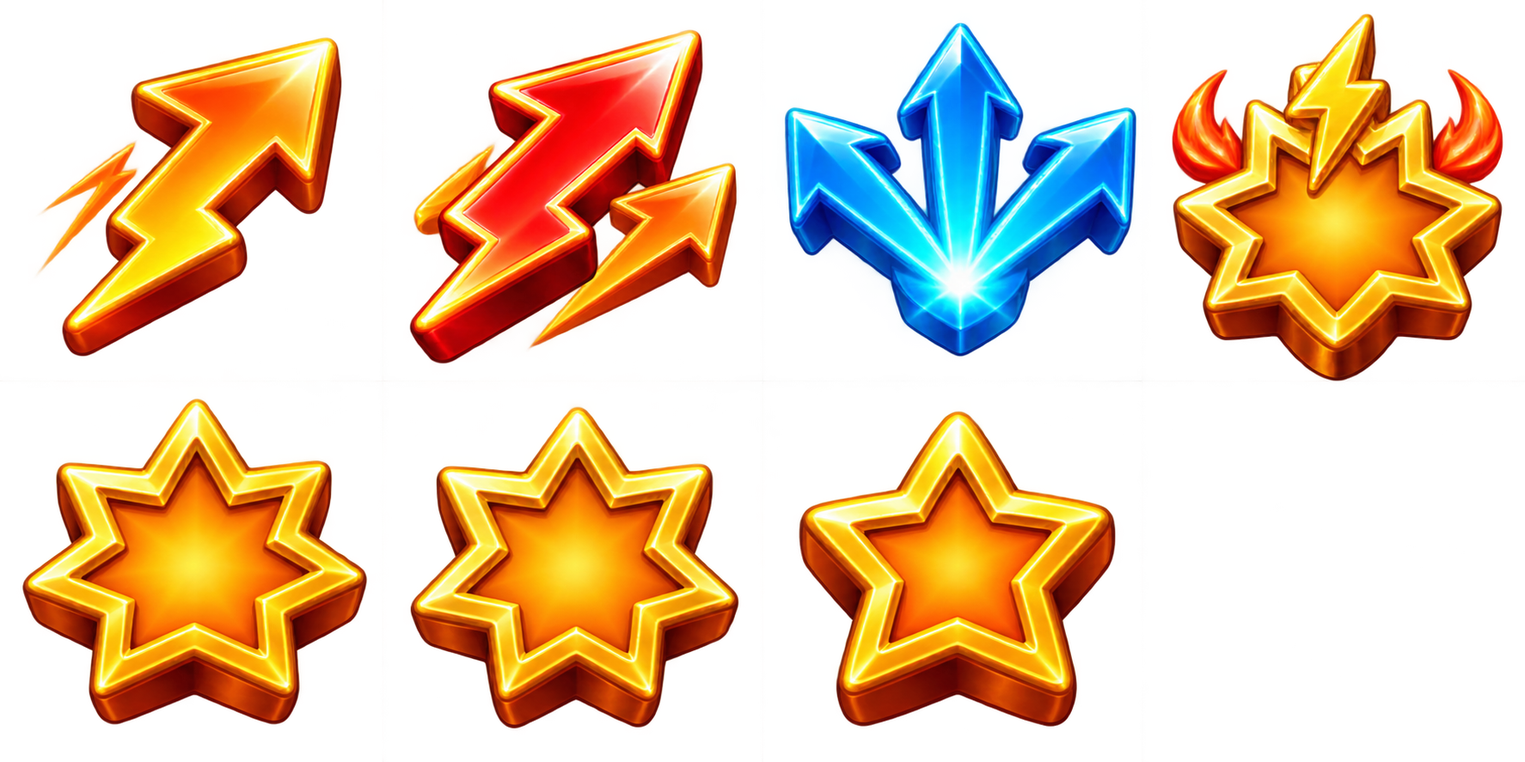
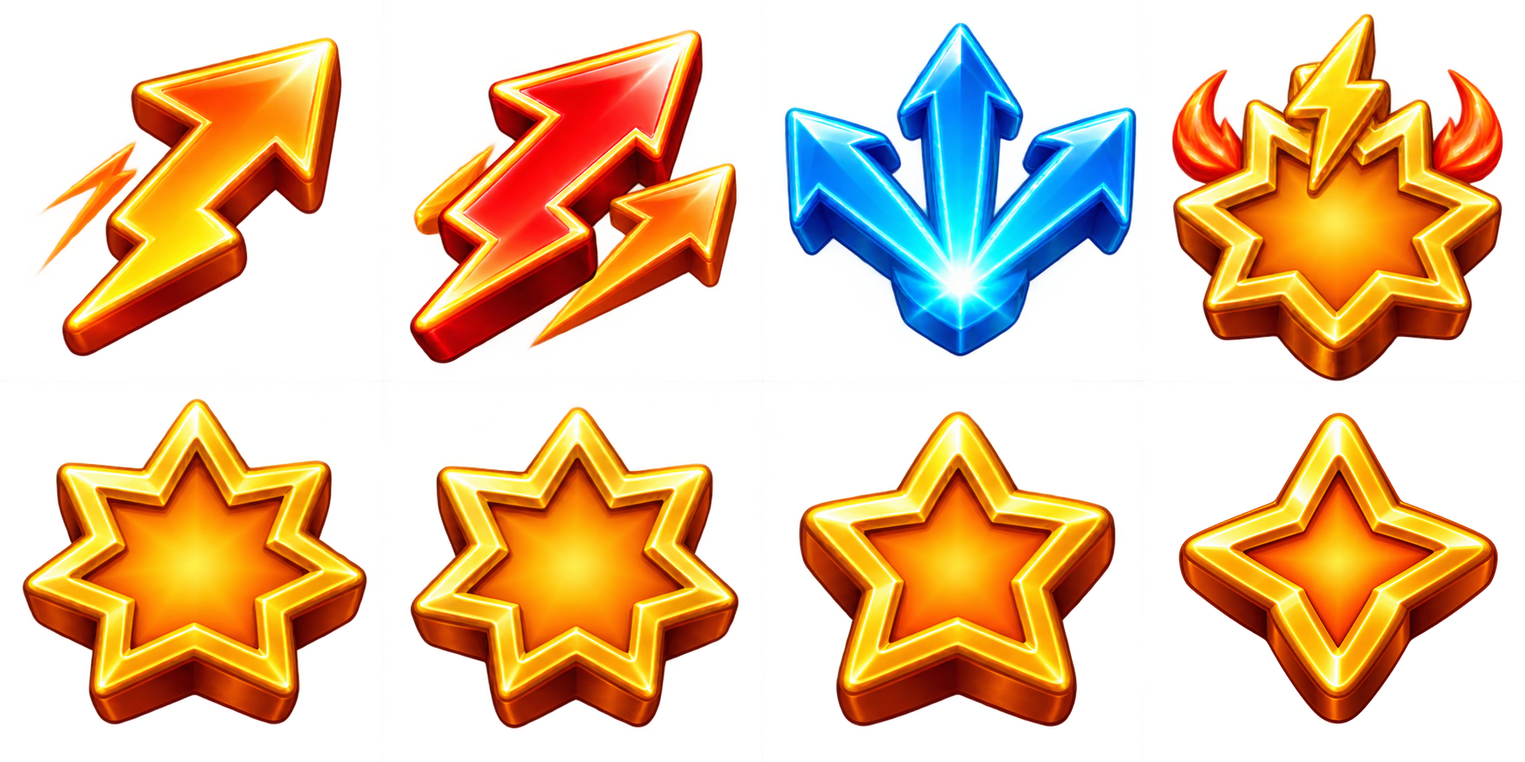
Classic DDTank power-up math: shot-mode penalties, additive bonuses, +10%
- shared/powerUps.ts centralizes the rules: +1 2 shots at 0.90, +2 3 shots at 0.60,
  Tridente 3 simultaneous projectiles at 0.50; percentage bonuses add up.
- +1 and +2 are exclusive and once per turn; Tridente once, combines with them.
- New +10% power-up (50 Vigor/Delay) with a painted 4-point star icon.

Claude-Session: https://claude.ai/code/session_01Wqa95NUyQhj34yLL6HawWJ

Changed region(s): [[0.7751, 0.5479, 0.9921, 0.9436]]

diff --git a/tests/power-ups.test.ts b/tests/power-ups.test.ts
@@ -1,0 +1,98 @@
+import assert from 'node:assert/strict';
+import {randomUUID} from 'node:crypto';
+import {test} from 'node:test';
+import {Game} from '../server/game';
+import {normalizeProfile} from '../server/store';
+import type {ProfileStore} from '../server/store';
+import {attributes,BOOSTS,DEFAULT_EQUIPMENT,WEAPONS} from '../shared/catalog';
+import type {BoostId} from '../shared/catalog';
+import {damageAtImpact,VOLLEY_CADENCE_MS} from '../shared/combat';
+import {powerUpConflict,powerUpCost,powerUpShot} from '../shared/powerUps';
+import type {Profile,ServerEvent} from '../shared/protocol';
+import {WORLD} from '../shared/physics';
+
+const close=(actual:number,expected:number)=>assert.ok(Math.abs(actual-expected)<1e-9,`${actual} ≠ ${expected}`);
+const COSTS=Object.fromEntries(BOOSTS.map(boost=>[boost.id,boost.cost]));
+
+test('shot modes: +1 is 2 shots at 90%, +2 is 3 shots at 60%, Tridente 3 simultaneous projectiles at 50%',()=>{
+ const one=powerUpShot(['extra1']),two=powerUpShot(['extra2']),trident=powerUpShot(['trident']),plain=powerUpShot([]);
+ assert.deepEqual([plain.sequentialShots,plain.projectilesPerShot],[1,1]);close(plain.finalMultiplier,1);
+ assert.deepEqual([one.sequentialShots,one.projectilesPerShot],[2,1]);close(one.modeMultiplier,.9);
+ assert.deepEqual([two.sequentialShots,two.projectilesPerShot],[3,1]);close(two.modeMultiplier,.6);
+ assert.deepEqual([trident.sequentialShots,trident.projectilesPerShot],[1,3]);close(trident.modeMultiplier,.5);
+});
+
+test('percentage bonuses add (never multiply) and the DDTank examples A to E hold for 1000 damage',()=>{
+ close(powerUpShot(['damage50']).bonusMultiplier,1.5);close(powerUpShot(['damage50','damage20']).bonusMultiplier,1.7);
+ close(powerUpShot(['damage50','damage50','damage40']).bonusMultiplier,2.4);close(powerUpShot(['damage10']).bonusMultiplier,1.1);
+ const cases:[BoostId[],number,number,number][]=[
+  [['extra1','damage50','damage20'],1.53,2,3060],[['extra2','damage50','damage20'],1.02,3,3060],
+  [['trident','damage50','damage20'],.85,3,2550],[['damage50'],1.5,1,1500],[['damage50','damage50','damage40'],2.4,1,2400]
+ ];
+ for(const [boosts,multiplier,impacts,total] of cases){
+  const shot=powerUpShot(boosts);close(shot.finalMultiplier,multiplier);
+  assert.equal(shot.sequentialShots*shot.projectilesPerShot,impacts);assert.equal(Math.round(1000*shot.finalMultiplier)*impacts,total);
+ }
+});
+
+test('the power-up multiplier enters the existing damage pipeline once per impact, with Ataque, Defesa, Armadura and criticals',()=>{
+ const attacker={...DEFAULT_EQUIPMENT,upgrade:10},defender=DEFAULT_EQUIPMENT;
+ for(const boosts of [['extra1','damage50','damage20'],['extra2','damage50','damage20'],['trident','damage50','damage20']] as BoostId[][]){
+  const shot=powerUpShot(boosts);
+  for(const critical of [false,true]){
+   const plain=damageAtImpact(attacker,defender,{critical,attackerLevel:5}),boosted=damageAtImpact(attacker,defender,{critical,attackerLevel:5,shotMultiplier:shot.modeMultiplier,boostMultiplier:shot.bonusMultiplier});
+   assert.ok(Math.abs(boosted-plain*shot.finalMultiplier)<=1,`${boosts} ${critical}: ${boosted} vs ${plain*shot.finalMultiplier}`);
+  }
+ }
+ assert.ok(damageAtImpact({...DEFAULT_EQUIPMENT,upgrade:10},defender,{boostMultiplier:1.5})>damageAtImpact(DEFAULT_EQUIPMENT,defender,{boostMultiplier:1.5}),'forged Dano still counts');
+});
+
+test('combination matrix: one of +1/+2 per turn, trident once, bonuses repeat, costs add up',()=>{
+ assert.equal(powerUpConflict([],'extra1'),undefined);assert.match(powerUpConflict(['extra1'],'extra1')!,/\+1 já/);
+ assert.match(powerUpConflict(['extra1'],'extra2')!,/não combinam/);assert.match(powerUpConflict(['extra2'],'extra1')!,/não combinam/);
+ assert.match(powerUpConflict(['trident'],'trident')!,/tridente já/);assert.equal(powerUpConflict(['extra2'],'trident'),undefined);
+ assert.equal(powerUpConflict(['damage50','damage50'],'damage50'),undefined);
+ assert.equal(powerUpCost(['extra1','damage50','damage20'],COSTS),250);
+ assert.deepEqual(BOOSTS.map(boost=>[boost.id,boost.cost]),[['extra1',110],['extra2',110],['trident',110],['damage50',85],['damage40',80],['damage30',70],['damage20',55],['damage10',50]]);
+});
+
+async function battle(){
+ const profiles=new Map<string,Profile>(),events=new Map<string,ServerEvent[]>(),store={getProfile:async(id:string)=>profiles.get(id)??null,finishMatch:async()=>{}} as unknown as ProfileStore;
+ const game=new Game(store,()=>{},()=>.99),players=[0,1].map(i=>normalizeProfile({id:randomUUID(),name:`Power ${i}`}));
+ for(const player of players){profiles.set(player.id,player);events.set(player.id,[]);game.connect(player,event=>events.get(player.id)!.push(structuredClone(event)));}
+ await game.command(players[0].id,{type:'create',practice:true,name:'Power-ups',mode:'1v1',map:'celestial'});const roomId=game.peers.get(players[0].id)!.roomId!;
+ await game.command(players[1].id,{type:'join',roomId});await game.command(players[1].id,{type:'ready'});await game.command(players[0].id,{type:'start'});
+ const match=game.matches.get(roomId)!;match.state.wind=0;match.terrain.fill(0);match.terrain.fill(1,200*WORLD.cols);
+ for(const [index,fighter] of match.state.players.entries())Object.assign(fighter,{x:300+index*500,y:600,hp:5000,maxHp:5000});
+ const shooter=match.state.players.find(player=>player.id===match.state.turnId)!;
+ const errors=()=>events.get(shooter.id)!.filter((event):event is Extract<ServerEvent,{type:'error'}>=>event.type==='error').map(event=>event.message);
+ return {game,match,shooter,errors};
+}
+
+for(const [boost,delays] of [['extra1',[0,1]],['extra2',[0,1,2]],['trident',[0,0,0]]] as const){
+ test(`server: ${boost} fires ${delays.length} projectiles in one action, charges Vigor and Delay once and leaves attributes untouched`,async()=>{
+  const f=await battle(),before={equipment:structuredClone(f.shooter.equipment),stats:attributes(f.shooter.equipment,f.shooter.level)},vigor=f.shooter.stamina,delay=f.shooter.delay!;
+  await f.game.command(f.shooter.id,{type:'boost',boost});assert.equal(f.shooter.stamina,vigor-110);assert.equal(f.shooter.delay,delay+110);
+  await f.game.command(f.shooter.id,{type:'fire',angle:50,power:55});
+  const shot=f.match.activeShot!;assert.deepEqual(shot.projectiles.filter(p=>!p.fragment).map(p=>p.delay),delays.map(n=>n*VOLLEY_CADENCE_MS));
+  const shotDelay=WEAPONS.find(weapon=>weapon.id===f.shooter.equipment.weapon)?.shotDelay??0;
+  assert.equal(f.shooter.delay,delay+110+shotDelay,'shot Delay is added once, not per projectile');assert.equal(f.match.state.phase,'resolving');
+  assert.deepEqual(f.shooter.equipment,before.equipment);assert.deepEqual(attributes(f.shooter.equipment,f.shooter.level),before.stats);
+  await f.game.command(f.shooter.id,{type:'fire',angle:50,power:55});assert.equal(f.match.activeShot,shot,'no second action while the sequence resolves');
+ });
+}
+
+test('server: insufficient Vigor refuses a power-up without consuming anything',async()=>{
+ const f=await battle();f.shooter.stamina=84;const before=structuredClone(f.shooter);
+ await f.game.command(f.shooter.id,{type:'boost',boost:'damage50'});assert.deepEqual(f.shooter,before);assert.match(f.errors().at(-1)!,/Vigor insuficiente/);
+ await f.game.command(f.shooter.id,{type:'boost',boost:'damage10'});assert.equal(f.shooter.stamina,34);assert.deepEqual(f.shooter.boosts,['damage10']);
+});
+
+test('server: a projectile impact processed twice never deals damage twice',async()=>{
+ const f=await battle(),target=f.match.state.players.find(player=>player.id!==f.shooter.id)!;
+ target.x=f.shooter.x+40;target.y=600;
+ await f.game.command(f.shooter.id,{type:'boost',boost:'trident'});await f.game.command(f.shooter.id,{type:'fire',angle:89,power:1});
+ const pending=[...f.match.pendingImpacts!],apply=(f.game as unknown as {applyImpact(m:unknown,i:unknown):void}).applyImpact.bind(f.game);
+ for(const impact of pending)apply(f.match,impact);const hp=target.hp,hits=f.match.activeShot!.hits.length;
+ for(const impact of pending)apply(f.match,impact);assert.equal(target.hp,hp);assert.equal(f.match.activeShot!.hits.length,hits);
+});

diff --git a/shared/powerUps.ts b/shared/powerUps.ts
@@ -1,0 +1,49 @@
+import type {BoostId} from './catalog';
+
+/**
+ * Shot power-ups after classic DDTank (docs/power-ups.md). Pure numbers and rules: the server validates
+ * every activation with them, the HUD greys out what they refuse, and damage reads `powerUpShot`.
+ *
+ * Final multiplier per impact = shot-mode multiplier × (1 + sum of the percentage bonuses).
+ * The bonuses add (+50% and +20% make ×1.70, never ×1.80) and never change the character's attributes.
+ */
+export interface ShotMode {/** Consecutive shots in the turn (+1 → 2, +2 → 3). */ sequentialShots:number;/** Projectiles per shot (Tridente → 3, at once). */ projectilesPerShot:number;/** Damage of each projectile before the bonuses. */ multiplier:number;}
+export const SHOT_MODES:Record<'extra1'|'extra2'|'trident',ShotMode>={
+ extra1:{sequentialShots:2,projectilesPerShot:1,multiplier:.9},
+ extra2:{sequentialShots:3,projectilesPerShot:1,multiplier:.6},
+ trident:{sequentialShots:1,projectilesPerShot:3,multiplier:.5}
+};
+/** Percentage damage bonuses (+0.10 to +0.50). */
+export const DAMAGE_BONUSES:Partial<Record<BoostId,number>>={damage50:.5,damage40:.4,damage30:.3,damage20:.2,damage10:.1};
+/** Angle offsets of the Tridente's three projectiles (the project's existing spread). */
+export const TRIDENT_SPREAD=[-9,0,9] as const;
+
+/**
+ * Combination matrix (configurable). +1 and +2 are one sequential mode: only one of them, once per turn
+ * (+1 twice would be a cheaper +2). The Tridente is once per turn and, as the project already allowed,
+ * combines with +1 or +2: every consecutive shot fires the three-way spread and the two penalties multiply
+ * (+2 + Tridente = 9 projectiles at 0.60 × 0.50 = 0.30 each). Percentage bonuses repeat while Vigor lasts.
+ */
+export const POWER_UP_RULES={sequentialModesPerTurn:1,tridentWithSequential:true,repeatDamageBonuses:true};
+const sequential=(id:BoostId)=>id==='extra1'||id==='extra2';
+
+/** Why `id` cannot join the power-ups already chosen this turn, or undefined when it can. Vigor is checked apart. */
+export function powerUpConflict(chosen:readonly BoostId[],id:BoostId):string|undefined {
+ if(id==='trident'&&chosen.includes('trident'))return 'O tridente já foi usado neste turno.';
+ if(sequential(id)&&chosen.filter(sequential).length>=POWER_UP_RULES.sequentialModesPerTurn)return chosen.includes(id)?`O ${id==='extra1'?'+1':'+2'} já foi usado neste turno.`:'+1 e +2 não combinam no mesmo turno.';
+ if(!POWER_UP_RULES.tridentWithSequential&&(id==='trident'&&chosen.some(sequential)||sequential(id)&&chosen.includes('trident')))return 'O tridente não combina com +1 ou +2.';
+ if(!POWER_UP_RULES.repeatDamageBonuses&&id in DAMAGE_BONUSES&&chosen.includes(id))return 'Este bônus já foi usado neste turno.';
+ return undefined;
+}
+/** Total Vigor of a selection: the sum of each power-up's cost. */
+export function powerUpCost(chosen:readonly BoostId[],costs:Readonly<Record<string,number>>){return chosen.reduce((sum,id)=>sum+(costs[id]??0),0);}
+
+/** The temporary modifiers of one shot (or sequence). Nothing here touches the fighter's attributes. */
+export interface PowerUpShot {sequentialShots:number;projectilesPerShot:number;spread:number[];modeMultiplier:number;bonus:number;bonusMultiplier:number;finalMultiplier:number;}
+export function powerUpShot(boosts:readonly BoostId[]):PowerUpShot {
+ const mode=boosts.find(sequential) as 'extra1'|'extra2'|undefined,trident=boosts.includes('trident');
+ const sequentialShots=mode?SHOT_MODES[mode].sequentialShots:1,projectilesPerShot=trident?SHOT_MODES.trident.projectilesPerShot:1;
+ const modeMultiplier=(mode?SHOT_MODES[mode].multiplier:1)*(trident?SHOT_MODES.trident.multiplier:1);
+ const bonus=Math.round(boosts.reduce((sum,id)=>sum+(DAMAGE_BONUSES[id]??0),0)*100)/100,bonusMultiplier=1+bonus;
+ return {sequentialShots,projectilesPerShot,spread:trident?[...TRIDENT_SPREAD]:[0],modeMultiplier,bonus,bonusMultiplier,finalMultiplier:modeMultiplier*bonusMultiplier};
+}

diff --git a/tests/combat-rules.test.ts b/tests/combat-rules.test.ts
@@ -54,9 +54,9 @@ test('approach geometry distinguishes center contact, grazing and splash despite
  assert.ok(Math.abs(direct.flightTime-(300-28-77)/980*1000/PROJECTILE_SPEED_SCALE)<1e-8);
 });
 
-test('extra tools compose additively while their total direct damage budget remains bounded',()=>{
- assert.deepEqual(shotModifiers(['extra1','extra2','damage20','damage20']),{volleys:4,spread:[0],projectileMultiplier:.45,damageMultiplier:1.4});
- const boosted=shotModifiers(['extra2','extra2','trident','damage50','damage40']);assert.equal(boosted.volleys,5);assert.equal(boosted.spread.length,3);assert.equal(boosted.damageMultiplier,1.9);assert.ok(Math.abs(boosted.volleys*boosted.spread.length*boosted.projectileMultiplier-2.7)<1e-9);
+test('shot modes set the projectile penalty and percentage bonuses add up',()=>{
+ assert.deepEqual(shotModifiers(['extra1','damage20','damage20']),{volleys:2,spread:[0],projectileMultiplier:.9,damageMultiplier:1.4});
+ const boosted=shotModifiers(['extra2','trident','damage50','damage40']);assert.equal(boosted.volleys,3);assert.equal(boosted.spread.length,3);assert.equal(boosted.damageMultiplier,1.9);assert.ok(Math.abs(boosted.projectileMultiplier-.3)<1e-9);
 });
 
 test('splash is local with gradual falloff and no damage at or beyond its hitbox boundary',()=>{
@@ -135,9 +135,9 @@ test('a lethal hit kills at impact but the result waits for the shot to end, and
 
 test('repeated tools require the authoritative vigor budget and cannot mutate state during resolution',async()=>{
  const f=await fixture(),vigor=f.shooter.stamina;
- for(const boost of ['extra1','extra2'] as const)await f.game.command(f.shooter.id,{type:'boost',boost});assert.deepEqual(f.shooter.boosts,['extra1','extra2']);assert.equal(f.shooter.stamina,vigor-220);
+ for(const boost of ['extra2','trident'] as const)await f.game.command(f.shooter.id,{type:'boost',boost});assert.deepEqual(f.shooter.boosts,['extra2','trident']);assert.equal(f.shooter.stamina,vigor-220);
  const before=structuredClone(f.shooter);await f.game.command(f.shooter.id,{type:'boost',boost:'damage20'});assert.deepEqual(f.shooter,before);
- await f.game.command(f.shooter.id,{type:'fire',angle:60,power:50});const shot=f.match.activeShot!;assert.deepEqual(shot.projectiles.map(projectile=>projectile.delay),[0,1,2,3].map(n=>n*VOLLEY_CADENCE_MS));assert.ok(shot.projectiles[0].flightTime>3*VOLLEY_CADENCE_MS);
+ await f.game.command(f.shooter.id,{type:'fire',angle:60,power:50});const shot=f.match.activeShot!;assert.deepEqual(shot.projectiles.map(projectile=>projectile.delay),[0,0,0,1,1,1,2,2,2].map(n=>n*VOLLEY_CADENCE_MS));assert.ok(shot.projectiles[0].flightTime>2*VOLLEY_CADENCE_MS);
  const snapshot=structuredClone(f.match.state);await f.game.command(f.shooter.id,{type:'boost',boost:'damage50'});assert.deepEqual(f.match.state,snapshot);
  assert.equal(attributes(f.shooter.equipment).luck,105);
 });

diff --git a/src/components/BattleHud.tsx b/src/components/BattleHud.tsx
@@ -11,6 +11,7 @@ import {useCallback,useEffect,useLayoutEffect,useRef,useState} from 'react';
 import type {CSSProperties} from 'react';
 import {ChevronDown,ChevronUp,Zap} from 'lucide-react';
 import {BOOSTS,WEAPONS} from '../../shared/catalog';
+import {powerUpConflict} from '../../shared/powerUps';
 import type {BoostId} from '../../shared/catalog';
 import type {AbilityId} from '../../shared/abilities';
 import {aimSource,clampAimAngle,weaponAimLimits} from '../../shared/aim';
@@ -87,7 +88,7 @@ export function BattleHud({angle,setAngle,blocked}:{angle:number;setAngle:(v:num
  },[cancelCharge]);
  const useBoost=useCallback((id:BoostId)=>{
   const boost=BOOSTS.find(item=>item.id===id)!,fighter=live.current.me;
-  if(!live.current.canAct||turnSubmitted.current||fighter.flightArmed||(id==='trident'&&fighter.boosts.includes(id))||(fighter.powerArmed&&powBoostConflict(fighter.equipment.weapon,id))||fighter.stamina<boost.cost)return;
+  if(!live.current.canAct||turnSubmitted.current||fighter.flightArmed||powerUpConflict(fighter.boosts,id)||(fighter.powerArmed&&powBoostConflict(fighter.equipment.weapon,id))||fighter.stamina<boost.cost)return;
   client.send({type:'boost',boost:id});
  },[]);
 
@@ -201,7 +202,7 @@ export function BattleHud({angle,setAngle,blocked}:{angle:number;setAngle:(v:num
   <aside className="boost-bar" aria-label="Ferramentas de batalha">
    <div className="boost-caption"><Zap size={15}/> PODERES</div>
    {BOOSTS.map((boost,index)=>{
-     const count=b.turnId===me.id?me.boosts.filter(id=>id===boost.id).length:0,selected=count>0,disabled=!canAct||me.flightArmed||(boost.id==='trident'&&selected)||powBlocks(boost.id)||me.stamina<boost.cost;
+     const count=b.turnId===me.id?me.boosts.filter(id=>id===boost.id).length:0,selected=count>0,disabled=!canAct||me.flightArmed||(b.turnId===me.id&&!!powerUpConflict(me.boosts,boost.id))||powBlocks(boost.id)||me.stamina<boost.cost;
     const damage=boost.id.startsWith('damage'),symbol=boost.id==='trident'?'×3':boost.label;
     return <button type="button" key={boost.id} data-boost={boost.id} data-count={count} aria-label={`${boost.name}, ${boost.cost} vigor${count?`, ${count} ${count===1?'uso':'usos'}`:''}`} aria-pressed={selected} title={`${boost.name}\n${boost.detail}\n${boost.cost} de vigor${count?`\n${count} ${count===1?'uso preparado':'usos preparados'}`:''}`} className={`boost ${selected?'selected':''}`} disabled={disabled} onClick={event=>{useBoost(boost.id);if(event.detail>0)event.currentTarget.blur();}}>
      <span className="boost-painted-icon" aria-hidden="true" style={{backgroundPosition:`${(index%4)*100/3}% ${Math.floor(index/4)*100}%`}}/>

diff --git a/tests/game.test.ts b/tests/game.test.ts
@@ -64,15 +64,16 @@ test('a player cannot fire, walk, boost or pass during the opponent turn',async(
  assert.ok(errors(f.events.get(other.id)!).every(e=>e.message==='Aguarde a sua vez.'));
 });
 
-test('boosts repeat while vigor lasts, reject overspending and keep trident unique',async()=>{
+test('power-ups follow the combination matrix, the Vigor budget and keep the trident unique',async()=>{
  const f=await battleFixture(),player=f.match.state.players.find(p=>p.id===f.match.state.turnId)!,stamina=player.stamina;
  await f.game.command(player.id,{type:'boost',boost:'extra1'});assert.equal(player.stamina,stamina-110);
- await f.game.command(player.id,{type:'boost',boost:'extra1'});await f.game.command(player.id,{type:'boost',boost:'extra2'});
- assert.equal(player.stamina,stamina-220);assert.deepEqual(player.boosts,['extra1','extra1']);
+ await f.game.command(player.id,{type:'boost',boost:'extra1'});assert.match(errors(f.events.get(player.id)!).at(-1)!.message,/\+1 já/);
+ await f.game.command(player.id,{type:'boost',boost:'extra2'});assert.match(errors(f.events.get(player.id)!).at(-1)!.message,/não combinam/);
  await f.game.command(player.id,{type:'boost',boost:'trident'});assert.equal(player.stamina,stamina-220);
- await f.game.command(player.id,{type:'boost',boost:'damage20'});assert.equal(player.stamina,stamina-220);assert.deepEqual(player.boosts,['extra1','extra1']);
- assert.equal(errors(f.events.get(player.id)!).length,3);
+ await f.game.command(player.id,{type:'boost',boost:'damage20'});assert.equal(player.stamina,stamina-220);assert.deepEqual(player.boosts,['extra1','trident']);
+ assert.equal(errors(f.events.get(player.id)!).length,3);assert.match(errors(f.events.get(player.id)!).at(-1)!.message,/Vigor insuficiente/);
  await f.game.command(player.id,{type:'pass'});while(f.match.state.turnId!==player.id)await f.game.command(f.match.state.turnId,{type:'pass'});
+ assert.deepEqual(player.boosts,[]);assert.equal(player.stamina,player.maxStamina);
  await f.game.command(player.id,{type:'boost',boost:'trident'});await f.game.command(player.id,{type:'boost',boost:'trident'});assert.equal(player.stamina,stamina-110);assert.deepEqual(player.boosts,['trident']);assert.match(errors(f.events.get(player.id)!).at(-1)!.message,/tridente já/);
 });
 

diff --git a/shared/catalog.ts b/shared/catalog.ts
@@ -203,13 +203,14 @@ export function weaponAssetPath(id:string,level=0):string {return `/assets/weapo
 export function weaponIconPath(id:string,level=0):string {return `/assets/weapons/${id}/icon-${weaponVisualStage(level)}.png`;}
 /** Tools spend Vigor (`cost`) and add Delay (`delay`, like DDTank item Property5). Brasa balance: Delay equals the Vigor cost. */
 export const BOOSTS = [
- {id:'extra1',label:'+1',name:'Disparo adicional',cost:110,detail:'Adiciona 1 disparo · repetível · dano distribuído',key:'1',delay:110},
- {id:'extra2',label:'+2',name:'Dois disparos adicionais',cost:110,detail:'Adiciona 2 disparos · repetível · dano distribuído',key:'2',delay:110},
- {id:'trident',label:'Ⅲ',name:'Tridente',cost:110,detail:'3 projéteis em leque · 50% de dano · uma vez',key:'3',delay:110},
+ {id:'extra1',label:'+1',name:'Disparo adicional',cost:110,detail:'2 disparos seguidos · 90% de dano cada · não combina com +2',key:'1',delay:110},
+ {id:'extra2',label:'+2',name:'Dois disparos adicionais',cost:110,detail:'3 disparos seguidos · 60% de dano cada · não combina com +1',key:'2',delay:110},
+ {id:'trident',label:'Ⅲ',name:'Tridente',cost:110,detail:'3 projéteis ao mesmo tempo · 50% de dano cada · uma vez',key:'3',delay:110},
  {id:'damage50',label:'50%',name:'Dano +50%',cost:85,detail:'Aumenta o dano em 50%',key:'4',delay:85},
  {id:'damage40',label:'40%',name:'Dano +40%',cost:80,detail:'Aumenta o dano em 40%',key:'5',delay:80},
  {id:'damage30',label:'30%',name:'Dano +30%',cost:70,detail:'Aumenta o dano em 30%',key:'6',delay:70},
- {id:'damage20',label:'20%',name:'Dano +20%',cost:55,detail:'Aumenta o dano em 20%',key:'7',delay:55}
+ {id:'damage20',label:'20%',name:'Dano +20%',cost:55,detail:'Aumenta o dano em 20%',key:'7',delay:55},
+ {id:'damage10',label:'10%',name:'Dano +10%',cost:50,detail:'Aumenta o dano em 10%',key:'8',delay:50}
 ] as const;
 export type BoostId = typeof BOOSTS[number]['id'];
 export {MAPS} from './maps';

diff --git a/shared/combat.ts b/shared/combat.ts
@@ -2,6 +2,7 @@ import {attributes} from './catalog';
 import type {BoostId,Equipment} from './catalog';
 import type {HitKind} from './protocol';
 import {FIGHTER_HIT_RADIUS} from './physics';
+import {powerUpShot} from './powerUps';
 import {armorReduction,attackMultiplier,combinedReduction,CRITICAL_ROLL_MODE,criticalBonusMultiplier,criticalChancePercent,defenseReduction} from './stats';
 import type {CriticalRollMode} from './stats';
 
@@ -18,9 +19,11 @@ export function criticalFromRoll(luck:number,roll:number,mode:CriticalRollMode=C
  if(!Number.isFinite(roll)||roll<0||roll>=1)return false;
  return mode==='legacy'?criticalChancePercent(luck)>=Math.floor(roll*100):roll<criticalChance(luck);
 }
+/** Shot shape and damage factors from the turn's power-ups (shared/powerUps.ts): consecutive volleys, the
+ * Tridente spread, the shot-mode penalty per projectile and the additive percentage bonus. */
 export function shotModifiers(boosts:readonly BoostId[]){
- const volleys=1+boosts.reduce((count,id)=>count+(id==='extra1'?1:id==='extra2'?2:0),0),trident=boosts.includes('trident');
- return {volleys,spread:trident?[-9,0,9]:[0],projectileMultiplier:Math.min(1,1.8/volleys)*(trident?.5:1),damageMultiplier:1+boosts.reduce((n,id)=>n+(id.startsWith('damage')?Number(id.slice(6))/100:0),0)};
+ const shot=powerUpShot(boosts);
+ return {volleys:shot.sequentialShots,spread:shot.spread,projectileMultiplier:shot.modeMultiplier,damageMultiplier:shot.bonusMultiplier};
 }
 /** Approach quality is the penetration of the projectile's travel line through
  * the expanded fighter circle; surface distance cannot distinguish a graze. */

diff --git a/server/game.ts b/server/game.ts
@@ -1,4 +1,5 @@
 import {boostsForShot,powBoostConflict} from '../shared/weaponKit';
+import {powerUpConflict} from '../shared/powerUps';
 import {chargeFromDamage,POWER_MAX,POWER_CUT_IN_MS,POWER_DAMAGE_MULTIPLIER,POWER_BLAST_MULTIPLIER,POWER_CRATER_MULTIPLIER} from '../shared/power';
 import {CARD_PRIZES,REWARD_CARD_COUNT,REWARD_PICK_MS,REWARD_RESULT_MS,REWARD_RETURN_MS} from '../shared/rewards';
 import type {CardPrize,MatchBonuses} from '../shared/rewards';
@@ -602,7 +603,7 @@ export class Game {
  private boost(f:Fighter,id:BoostId){
   if(f.flightArmed)throw Error('Cancele o voo antes de usar ferramentas.');
   const b=BOOSTS.find(b=>b.id===id)!;
-  if(id==='trident'&&f.boosts.includes(id))throw Error('O tridente já foi usado neste turno.');
+  const combination=powerUpConflict(f.boosts,id);if(combination)throw Error(combination);
   // POW × Tridente follows the weapon's rule (shared/weaponKit.ts).
   const conflict=f.powerArmed?powBoostConflict(f.equipment.weapon,id):undefined;if(conflict)throw Error(conflict);
   if(f.stamina<b.cost)throw Error('Vigor insuficiente.');f.stamina-=b.cost;f.delay=(f.delay??0)+b.delay;f.boosts.push(id);

diff --git a/src/components/BattleHud.css b/src/components/BattleHud.css
@@ -45,6 +45,7 @@
 .artillery-hud .boost[data-boost="damage40"]{--boost-color:#ffa528}
 .artillery-hud .boost[data-boost="damage30"]{--boost-color:#ffc43d}
 .artillery-hud .boost[data-boost="damage20"]{--boost-color:#ffdc60}
+.artillery-hud .boost[data-boost="damage10"]{--boost-color:#ffe98a}
 .artillery-hud .boost::before{content:'';position:absolute;inset:2px;border-radius:9px;background:linear-gradient(145deg,#e5f8ff24,transparent 36% 70%,#0002);pointer-events:none}
 .artillery-hud .boost-painted-icon{position:absolute;top:1px;left:1px;width:calc(100% - 2px);aspect-ratio:1;display:block;background-image:url('/assets/ui/boost-arrows-power.png');background-size:400% 200%;background-repeat:no-repeat;pointer-events:none;filter:drop-shadow(0 3px 1px #030919c7);transition:transform .15s,filter .15s}
 .artillery-hud .boost:hover:not(:disabled),.artillery-hud .boost:focus-visible{border-color:#fff3ad;box-shadow:inset 0 2px #fff7cc88,inset 0 0 0 2px #08172f,0 0 11px color-mix(in srgb,var(--boost-color) 45%,transparent),0 3px #080f26}

diff --git a/shared/protocol.ts b/shared/protocol.ts
@@ -99,7 +99,7 @@ export const commandSchema=z.discriminatedUnion('type',[
  z.object({type:z.literal('power')}).strict(),
  z.object({type:z.literal('ability'),ability:z.enum(ABILITY_IDS)}).strict(),
  z.object({type:z.literal('flight'),active:z.boolean()}).strict(),
- z.object({type:z.literal('boost'),boost:z.enum(['extra1','extra2','trident','damage50','damage40','damage30','damage20'])}),
+ z.object({type:z.literal('boost'),boost:z.enum(['extra1','extra2','trident','damage50','damage40','damage30','damage20','damage10'])}),
  z.object({type:z.literal('walk'),direction:z.union([z.literal(-1),z.literal(1)])}),
  z.object({type:z.literal('face'),direction:z.union([z.literal(-1),z.literal(1)])}).strict(),
  z.object({type:z.literal('aim'),angle:finite(5,90),power:finite(0,100),charging:z.boolean()}).strict(),

diff --git a/docs/power-ups.md b/docs/power-ups.md
@@ -1,0 +1,36 @@
+# Power-ups de combate (perfil DDTank clássico)
+
+Matemática e regras em `shared/powerUps.ts`; custos, Delay e textos em `BOOSTS` (`shared/catalog.ts`). O servidor valida cada ativação (`Game.boost`) e a barra de poderes usa as mesmas regras para apagar o que não pode ser usado. Testes em `tests/power-ups.test.ts`.
+
+## Efeitos
+
+| Power-up | Vigor | Delay | Efeito |
+| --- | ---: | ---: | --- |
+| +1 | 110 | 110 | 2 disparos seguidos, 90% do dano cada |
+| +2 | 110 | 110 | 3 disparos seguidos, 60% do dano cada |
+| Tridente | 110 | 110 | 3 projéteis ao mesmo tempo, 50% do dano cada |
+| +50% / +40% / +30% / +20% / +10% | 85 / 80 / 70 / 55 / 50 | igual ao Vigor | soma 0,50 / 0,40 / 0,30 / 0,20 / 0,10 ao bônus |
+
+```text
+MultiplicadorFinal = MultiplicadorModo × (1 + SomaDosBônus)
+DanoDoImpacto      = arredondar(DanoNormalDoImpacto × MultiplicadorFinal)
+CustoTotal         = soma do Vigor de cada power-up escolhido
+```
+
+Os bônus somam: +50% e +20% dão ×1,70 (nunca ×1,80). O multiplicador entra no `damageAtImpact` como `shotMultiplier` (modo) e `boostMultiplier` (bônus), junto com Ataque, Defesa, Sorte, Armadura, exposição à explosão, crítico e POW; o arredondamento é um só, no fim de cada impacto. Nada disso muda os atributos do personagem, e os power-ups acabam quando o próximo turno do jogador começa.
+
+Exemplos com 1.000 de dano por impacto: +1 com 50% e 20% = 1.530 por disparo (3.060 nos dois); +2 com 50% e 20% = 1.020 (3.060 nos três); Tridente com 50% e 20% = 850 (2.550 nos três); só 50% = 1.500; 50% + 50% + 40% = 2.400.
+
+## Combinações (`POWER_UP_RULES`)
+
+- +1 e +2 são um modo de disparos seguidos: só um deles, uma vez por turno (+1 duas vezes seria um +2 mais forte).
+- Tridente uma vez por turno; combina com +1 ou +2 (regra antiga do projeto): cada disparo seguido sai em leque e as penalidades se multiplicam (+2 com Tridente = 9 projéteis a 0,60 × 0,50 = 0,30 cada). Escolha do Brasa, sem valor histórico verificado; desligue com `tridentWithSequential:false`.
+- Bônus de dano se repetem enquanto houver Vigor.
+- POW e Tridente seguem a regra de cada arma (`powTrident` em `shared/weaponKit.ts`); o Quebra-Tijolos não combina POW com Tridente.
+- Voo não combina com power-ups.
+
+## Disparos e turno
+
+Todos os disparos de uma sequência são uma ação só: o servidor simula +1/+2 em ordem, e cada disparo vê a cratera, as quedas e as mortes dos anteriores; cada projétil tem trajetória, colisão, sorteio de crítico e dano próprios. Cada impacto é aplicado uma vez só (`shot.impacted`). O turno termina depois do último impacto e da pausa `TURN_GAP_MS`. O Delay do tiro (tempo usado + `shotDelay` da arma) é somado uma vez, não por projétil; o Delay de cada power-up é somado na ativação.
+
+Power Max não existe no projeto.

diff --git a/CLAUDE.md b/CLAUDE.md
@@ -92,4 +92,5 @@ Regra geral: ele quer arte **pintada, nível DDTank**, com volume e cores vivas.
 - **Central de Expedições** (17/10, `docs/expeditions.md`): salas de expedição, Formigueiro Fácil com 2 estágios (formigas no tronco, rainha no formigueiro), turno da instância em `shared/instanceTurn.ts` (reaproveitar em toda masmorra), estágios editáveis no `/admin` (mapas de instância com lista de monstros). Cada estágio vencido volta para a sala com o próximo marcado; escolha de estágio na janela é provisória (o usuário vai tirar). Objetivo abaixo do minimapa; terreno do formigueiro não quebra. Falta: balancear e abrir Normal/Difícil/Herói, sons das formigas.
 - **Partidas persistentes** (17/10, `docs/live-state.md`): salas e partidas voltam após reinício/queda (Redis + Postgres `live_state`, nunca no meio de um tiro). Campo novo em `Match` ou `Room` precisa ser JSON ou tratado em `Game.savedState`/`Game.restore`; teste com `npm run test:restart:integration`.
 - **Atributos e Delay** (18/10, `docs/attributes.md`): matemática do DDTank clássico centralizada em `shared/stats.ts` (Vida por nível e Defesa, Vigor, dano com Defesa/Armadura/Sorte, crítico 4.1, forja ×1,10 até +15 e marcos +10/+12 da arma). PvP joga quem tem menor Delay acumulado (`shared/turnDelay.ts`, `Fighter.delay`); expedições mantêm o turno da instância. `attributes(equipamento, nível)` é a única soma de atributos. Ferreiro fortalece arma, roupa e chapéu (`canStrengthen`). Tiro, passar, ferramentas e habilidades somam Delay (valores do Brasa, tabela em `docs/attributes.md`). Composição tem 5 pedras, incluindo Sorte (Topázio da Fortuna).
+- **Power-ups** (18/10, `docs/power-ups.md`, `shared/powerUps.ts`): +1 (2 tiros a 90%), +2 (3 a 60%), Tridente (3 juntos a 50%), bônus +10% a +50% somados (não multiplicados); multiplicador = modo × (1 + bônus). +1 e +2 não combinam e valem uma vez por turno; Tridente combina com eles (penalidades multiplicam). Ícone do +10% é a estrela de 4 pontas no atlas `boost-arrows-power.png`.
 - Registre evidências e pendências também em `docs/implementation-status.md`.
